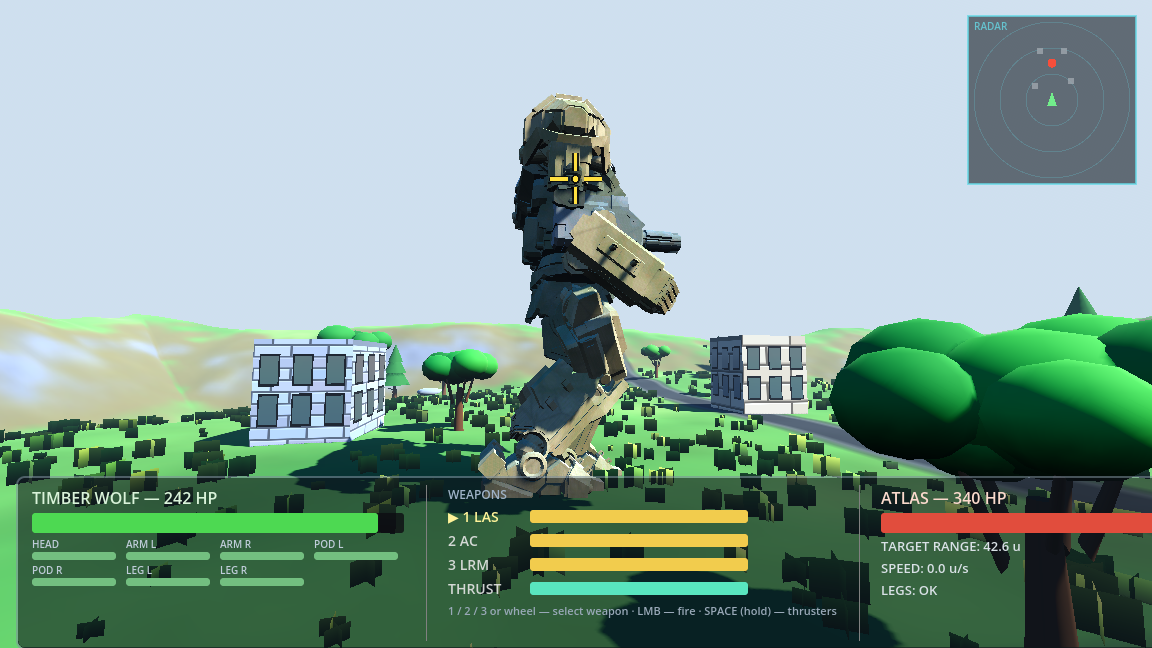
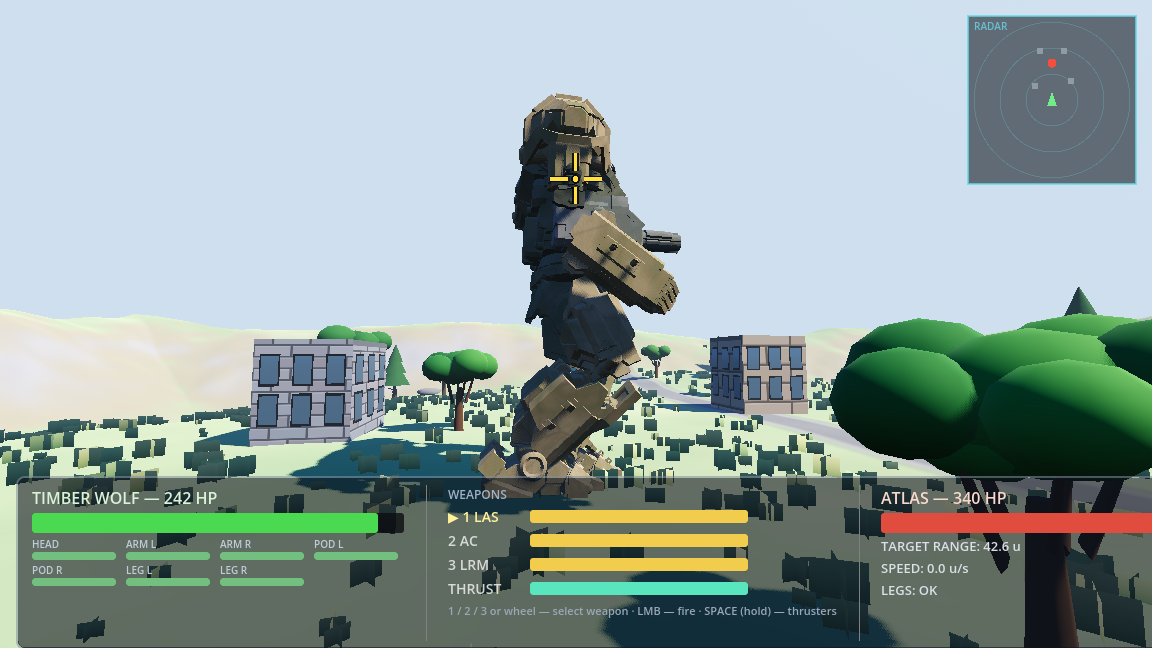
atlas knees: flip only the sagittal pole component (frontal-plane mirror)
Owner: the axis reflection bent the knees forward AND toward
each other — it mirrored the pole's lateral component too.
The flip now runs after both legs are set up and mirrors only
the component along the sagittal axis (up x hip-line), so the
legs keep their modeled stance from the front (poles keep
their +-0.559 lateral parts, mirror-symmetric) and the bend
shows only from the side. Verified in front + side gait
frames (the gait shot now captures both); duel suite green,
slide metric unchanged.

diff --git a/godot/MechWalker.cs b/godot/MechWalker.cs
@@ -295,6 +295,26 @@ public partial class MechWalker : Node3D
         SetupLeg(_legL, "hip_L", "knee_L", "ankle_L", skelG, holderG, groundY);
         SetupLeg(_legR, "hip_R", "knee_R", "ankle_R", skelG, holderG, groundY);
 
+        if (_cfg.FlipKneePole)
+        {
+            // Plantigrade flip (owner round 22): mirror ONLY the
+            // pole's sagittal (forward/back) component across the
+            // frontal plane — the lateral and vertical components
+            // are preserved, so from the front the legs keep their
+            // modeled stance and the bend shows only from the
+            // side. (The first cut reflected across the leg axis,
+            // which also mirrored the lateral component: the
+            // knees bent forward AND toward each other.)
+            var lateral = (_legR.Hrest - _legL.Hrest).Normalized();
+            foreach (var leg in new[] { _legL, _legR })
+            {
+                var up = (leg.Hrest - leg.Arest).Normalized();
+                var sag = up.Cross(lateral).Normalized(); // in the pole's plane, ⊥ leg axis and ⊥ lateral
+                leg.PoleSk = (leg.PoleSk - 2f * leg.PoleSk.Dot(sag) * sag).Normalized();
+                GD.Print($"{_cfg.Label} leg {leg.Name}: flipped pole={leg.PoleSk}");
+            }
+        }
+
         float reachW = 0.5f * ((_legL.L1 + _legL.L2) + (_legR.L1 + _legR.L2)) * skelG.Basis.X.Length();
         float horizHipAnkle = 0f;
         foreach (var leg in new[] { _legL, _legR })
@@ -332,13 +352,8 @@ public partial class MechWalker : Node3D
         var ha = leg.Arest - leg.Hrest;
         var pole = (leg.Krest - leg.Hrest) - ha.Normalized() * (leg.Krest - leg.Hrest).Dot(ha.Normalized());
         leg.PoleSk = pole.Normalized();
-        if (_cfg.FlipKneePole)
-        {
-            // Reflect the pole across the hip->ankle axis: the bend
-            // flips to the other side of the leg line.
-            var ax = ha.Normalized();
-            leg.PoleSk = (2f * leg.PoleSk.Dot(ax) * ax - leg.PoleSk).Normalized();
-        }
+        // The knee-pole flip itself runs in Init, once both legs
+        // are known (it needs the lateral hip axis).
         var ankW = skelG * leg.Arest;
         var soleW = new Vector3(ankW.X, groundY, ankW.Z);
         var soleSk = skelG.AffineInverse() * soleW;

diff --git a/godot/MechDuel.Camera.cs b/godot/MechDuel.Camera.cs
@@ -44,7 +44,16 @@ public partial class MechDuel
 
     private void UpdateCamera(float delta)
     {
-        if (_camMode == "enemySide")
+        if (_camMode == "enemyFront")
+        {
+            // In front of the enemy, on its line of advance: the
+            // frontal view (knee stance reads here, not from the side).
+            var p = _enemy.RootPos;
+            var toPlayer = new Vector3(_player.RootPos.X - p.X, 0f, _player.RootPos.Z - p.Z).Normalized();
+            _cam.GlobalPosition = p + toPlayer * 16f + new Vector3(0f, 5.5f, 0f);
+            _cam.LookAt(p + new Vector3(0f, 6.5f, 0f), Vector3.Up);
+        }
+        else if (_camMode == "enemySide")
         {
             var p = _enemy.RootPos;
             _cam.GlobalPosition = p + new Vector3(-17.5f, 5.5f, -3f);

diff --git a/godot/MechDuel.Harness.cs b/godot/MechDuel.Harness.cs
@@ -1719,8 +1719,9 @@ public partial class MechDuel
     private void UpdateGaitShot(float dt)
     {
         _gaitT += dt;
-        if (_gaitT > 1.9f && _camMode != "enemySide")
-            QueueCapture("res://proof/gait_atlas.png", "gait", "enemySide", () => GetTree().Quit());
+        if (_gaitT > 1.9f && _camMode != "enemySide" && _camMode != "enemyFront")
+            QueueCapture("res://proof/gait_atlas.png", "gait", "enemySide", () =>
+                QueueCapture("res://proof/gait_atlas_front.png", "gaitf", "enemyFront", () => GetTree().Quit()));
     }
 
 }
